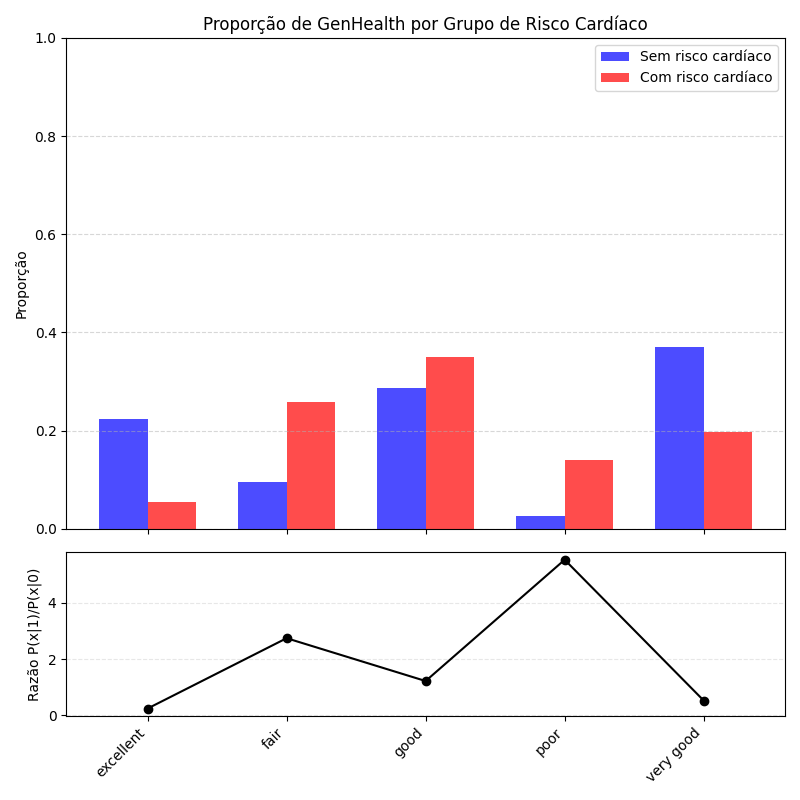
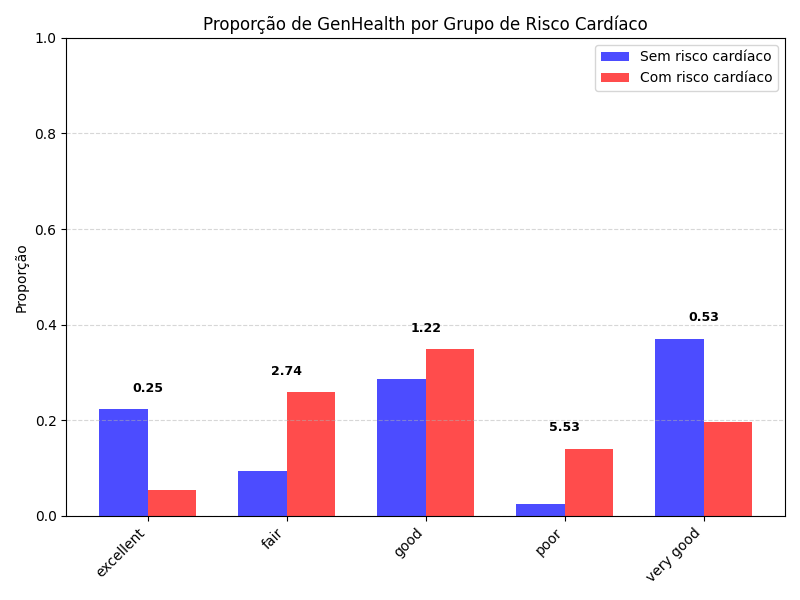
Análise de verossimilhanças

diff --git a/src/evaluation/feature_likelihood_analysis.py b/src/evaluation/feature_likelihood_analysis.py
@@ -46,6 +46,8 @@ categorical_features = [
 processed = 0
 skipped = 0
 
+EPS = 1e-9  # evita divisão por zero ao calcular razões
+
 for feature in header:
     if feature == status_col:
         continue
@@ -81,12 +83,21 @@ for feature in header:
             props_1 = [group_1.count(cat) / len(group_1) if group_1 else 0 for cat in categories]
             x = np.arange(len(categories))
             width = 0.35
-            plt.bar(x - width/2, props_0, width, label='Sem risco cardíaco', color='blue', alpha=0.7)
-            plt.bar(x + width/2, props_1, width, label='Com risco cardíaco', color='red', alpha=0.7)
+            bars0 = plt.bar(x - width/2, props_0, width, label='Sem risco cardíaco', color='blue', alpha=0.7)
+            bars1 = plt.bar(x + width/2, props_1, width, label='Com risco cardíaco', color='red', alpha=0.7)
             plt.xticks(x, categories, rotation=45, ha='right')
             plt.ylabel('Proporção')
             plt.title(f'Proporção de {feature} por Grupo de Risco Cardíaco')
-            plt.ylim(0, 1)
+            # ajusta ylim para que as anotações caibam acima das barras
+            top_val = max(props_0 + props_1) if (props_0 + props_1) else 1.0
+            plt.ylim(0, max(1.0, top_val + 0.25))
+
+            # calcula razão P(x|1)/P(x|0) e coloca acima das barras (centro entre as barras)
+            ratios = [ (p1 + EPS) / (p0 + EPS) for p0, p1 in zip(props_0, props_1) ]
+            for xi, r, p0, p1 in zip(x, ratios, props_0, props_1):
+                y = max(p0, p1) + 0.03
+                plt.text(xi, y, f'{r:.2f}', ha='center', va='bottom', fontsize=9, fontweight='bold')
+
             plt.legend()
             plt.grid(axis='y', linestyle='--', alpha=0.5)
         else:
@@ -112,15 +123,29 @@ for feature in header:
             mean_1, std_1 = np.mean(g1), np.std(g1)
             density_0 = norm.pdf(x_grid, mean_0, std_0 if std_0 > 0 else 1e-6)
             density_1 = norm.pdf(x_grid, mean_1, std_1 if std_1 > 0 else 1e-6)
-            plt.plot(x_grid, density_0, label='P(x|0) - Sem risco cardíaco', color='blue')
-            plt.plot(x_grid, density_1, label='P(x|1) - Com risco cardíaco', color='red')
-            plt.fill_between(x_grid, density_0, alpha=0.2, color='blue')
-            plt.fill_between(x_grid, density_1, alpha=0.2, color='red')
-            plt.xlabel(feature)
-            plt.ylabel('Densidade Normal')
-            plt.title(f'Verossimilhança de {feature} para Cada Grupo (Normal)')
-            plt.legend()
-            plt.grid(True)
+
+            # figura: densidades no eixo esquerdo, razão no eixo direito
+            fig, ax1 = plt.subplots(figsize=(8, 6))
+            ax1.plot(x_grid, density_0, label='P(x|0) - Sem risco cardíaco', color='blue')
+            ax1.plot(x_grid, density_1, label='P(x|1) - Com risco cardíaco', color='red')
+            ax1.fill_between(x_grid, density_0, alpha=0.2, color='blue')
+            ax1.fill_between(x_grid, density_1, alpha=0.2, color='red')
+            ax1.set_xlabel(feature)
+            ax1.set_ylabel('Densidade')
+            ax1.set_title(f'Verossimilhança de {feature} por Grupo')
+            ax1.grid(True)
+
+            # eixo y secundário para a razão
+            ax2 = ax1.twinx()
+            ratio = density_1 / (density_0 + EPS)
+            ax2.plot(x_grid, ratio, color='black', linestyle='--', linewidth=1.2, label='Razão P(x|1)/P(x|0)')
+            ax2.set_ylabel('Razão P(x|1)/P(x|0)', color='black')
+            ax2.tick_params(axis='y', labelcolor='black')
+
+            # legenda combinada
+            lines1, labels1 = ax1.get_legend_handles_labels()
+            lines2, labels2 = ax2.get_legend_handles_labels()
+            ax1.legend(lines1 + lines2, labels1 + labels2, loc='upper right', fontsize=9)
 
         plt.tight_layout()
         plt.savefig(os.path.join(output_dir, f'{feature}_vs_status.png'))
